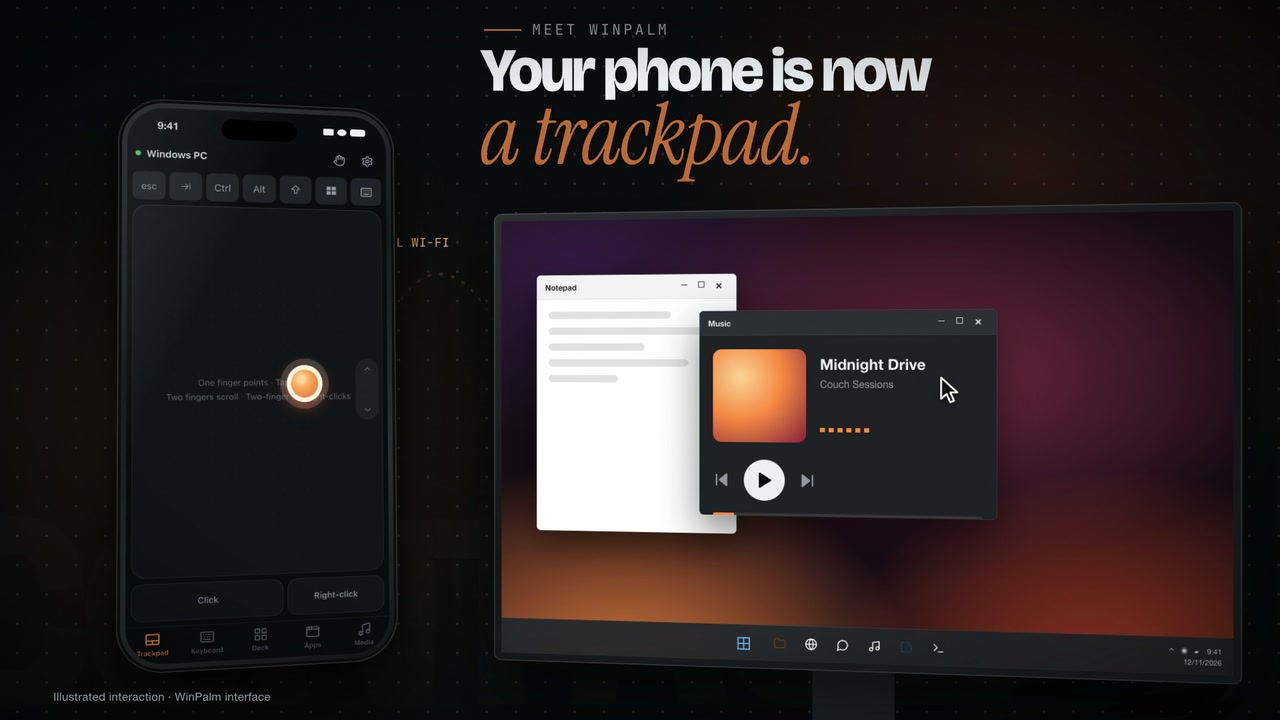
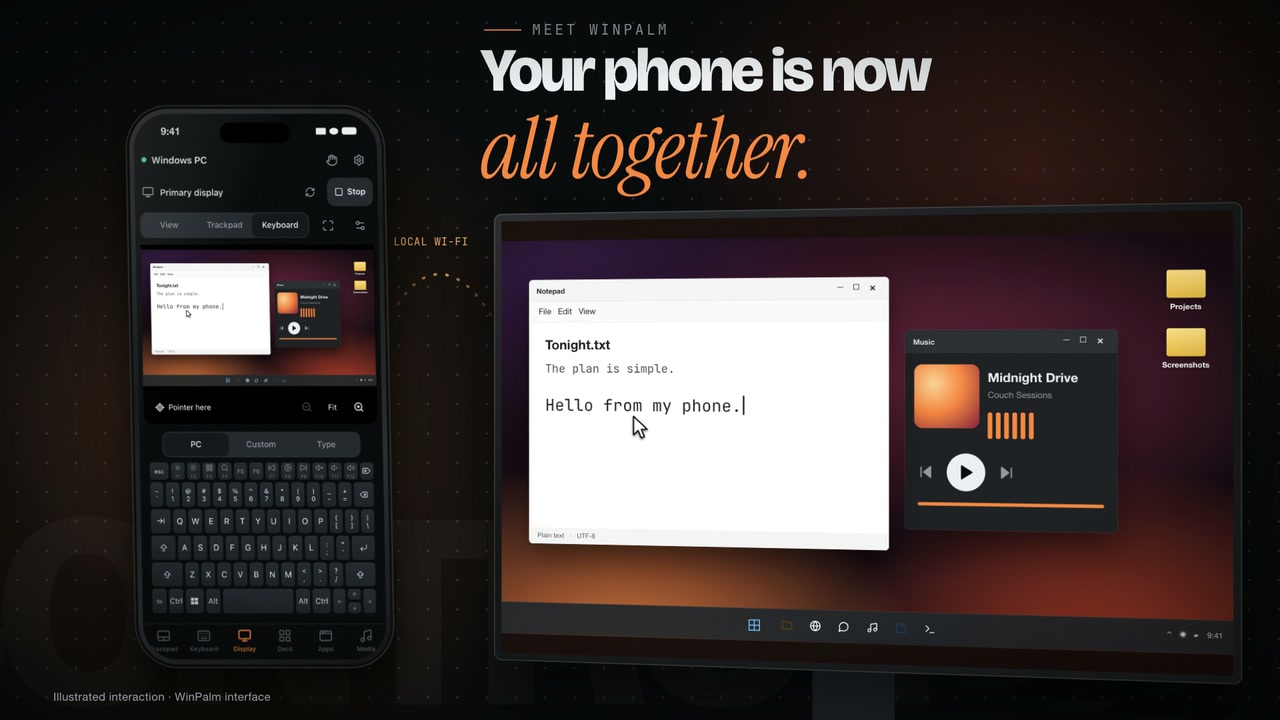
Refresh screen mirroring presentation and launch media
Align the README and phone metadata with the Display-first website refresh.
Update reviewed animations, posters and media export settings.

diff --git a/web/index.html b/web/index.html
@@ -4,7 +4,21 @@
     <meta charset="utf-8" />
     <meta name="viewport" content="width=device-width, initial-scale=1, maximum-scale=1, user-scalable=no, viewport-fit=cover, interactive-widget=resizes-content" />
     <meta name="theme-color" content="#0a0b0d" />
-    <meta name="description" content="Use your phone as a trackpad, keyboard and button deck for your PC." />
+    <meta name="description" content="Turn your iPhone, iPad or Android phone into a wireless Windows trackpad, keyboard, shortcut deck and live screen viewer. No phone app, account or cloud relay." />
+    <meta name="keywords" content="WinPalm, Windows screen viewer, mirror Windows screen to phone, phone as Windows trackpad, wireless mouse, Windows keyboard, shortcut deck, Windows remote control" />
+    <meta name="application-name" content="WinPalm" />
+    <meta name="author" content="RS Application" />
+    <meta property="og:type" content="website" />
+    <meta property="og:site_name" content="WinPalm" />
+    <meta property="og:title" content="WinPalm — Your Windows PC, in your palm" />
+    <meta property="og:description" content="Use your phone as a wireless Windows trackpad, keyboard, shortcut deck and live screen viewer. Private, direct and permission-controlled." />
+    <meta property="og:url" content="https://winpalm.rsapplication.com/" />
+    <meta property="og:image" content="https://winpalm.rsapplication.com/og.png" />
+    <meta property="og:image:alt" content="WinPalm Display illustrates a Windows desktop mirrored beside phone keyboard controls" />
+    <meta name="twitter:card" content="summary_large_image" />
+    <meta name="twitter:title" content="WinPalm — Your Windows PC, in your palm" />
+    <meta name="twitter:description" content="Turn your phone into a wireless Windows controller and live screen viewer. No phone app, account or cloud relay." />
+    <meta name="twitter:image" content="https://winpalm.rsapplication.com/og.png" />
     <meta name="color-scheme" content="dark light" />
     <meta name="apple-mobile-web-app-capable" content="yes" />
     <meta name="mobile-web-app-capable" content="yes" />
@@ -16,7 +30,7 @@
     <link rel="manifest" href="/manifest.webmanifest" />
     <link rel="icon" href="/icon.svg" type="image/svg+xml" />
     <link rel="apple-touch-icon" href="/apple-touch-icon.png" />
-    <title>WinPalm</title>
+    <title>WinPalm — Windows screen viewer, trackpad &amp; keyboard</title>
   </head>
   <body>
     <div id="app"></div>

diff --git a/README.md b/README.md
@@ -6,9 +6,9 @@
 
 ### Your PC, in your palm.
 
-Turn your iPhone, iPad or Android phone into a wireless mouse, trackpad,<br />
-keyboard and shortcut deck for Windows.<br />
-**No phone app. No account. Your controls stay on your network.**
+See and control your Windows PC from your iPhone, iPad or Android phone.<br />
+Screen mirroring, trackpad, keyboard and shortcut deck, together in your browser.<br />
+**No phone app. No account. Free and open source.**
 
 <br />
 
@@ -29,9 +29,9 @@ keyboard and shortcut deck for Windows.<br />
 
 <br />
 
-<a href="https://winpalm.rsapplication.com"><img src="docs/media/hero.webp" width="800" alt="Animated WinPalm preview: a phone controls the Windows trackpad, keyboard, shortcut Deck and voice typing" /></a>
+<a href="https://winpalm.rsapplication.com"><img src="docs/media/hero.webp" width="800" alt="WinPalm mirrors a Windows screen to a phone with trackpad and keyboard controls, shortcut Deck and voice typing" /></a>
 
-<sub><a href="https://winpalm.rsapplication.com/#film">▶ Watch the 86-second launch film</a> · <a href="https://winpalm.rsapplication.com">Try the interactive demo</a></sub>
+<sub><a href="https://winpalm.rsapplication.com/#film">▶ Watch the 101-second launch film</a> · <a href="https://winpalm.rsapplication.com">Try the interactive demo</a></sub>
 
 </div>
 
@@ -131,6 +131,36 @@ If you used a private development preview, quit it and install the latest public
 
 </details>
 
+## See your PC. Stay where you are.
+
+<a href="https://winpalm.rsapplication.com/guides/windows-screen-on-phone/"><img src="docs/media/display.webp" width="800" alt="WinPalm mirrors a Windows monitor to a phone with trackpad, keyboard, zoom and fullscreen controls" /></a>
+
+Use your phone as both a controller and a window into your PC. **Screen mirroring** in the **Display**
+tab brings a selected Windows monitor to your phone, on its own, above the
+trackpad or keyboard, or beside controls on a wide screen. Zoom and pan around
+the preview without moving the PC pointer, move the pointer to the selected
+monitor when you want, or enter fullscreen to focus on the screen. Choose
+between smooth motion, lower bandwidth, sharper text, or lossless HD text.
+
+Screen viewing is optional and separately permissioned. Enable **Allow screen
+viewing** in WinPalm's **Settings → General**, then grant access to your phone
+in **Settings → Devices**. You can also ask for approval on the PC from the
+phone. Video travels directly between the PC and phone over encrypted WebRTC,
+with no cloud relay. WinPalm captures no desktop audio and saves no screen
+recordings. Viewing stops when you leave the Display tab, pause control, or
+the PC locks, sleeps, or turns off its displays. Read the [screen viewing
+guide](https://winpalm.rsapplication.com/docs/screen-mirroring/)
+for setup and privacy details.
+
+One allowed device can view one selected monitor at a time. Use trusted HTTPS
+to protect the page, controls and pairing too; WebRTC encryption alone does not
+protect HTTP signaling. A reachable private VPN can work, but screen media
+requires a direct UDP path. Controls may connect while Display cannot, and a
+web reverse proxy does not carry the screen stream. WinPalm is not an extra
+monitor or an extended desktop.
+
+[Screen mirroring setup →](https://winpalm.rsapplication.com/docs/screen-mirroring/)
+
 ## Everything you need from the couch
 
 <table>
@@ -190,7 +220,30 @@ Speak into your phone and let a compatible installed Windows recognizer type on 
 </tr>
 </table>
 
-<sub>Animated previews from the 0.3.2 launch film, including the redesigned Windows interface. Phone UI and illustrated PC responses; no live Windows footage.</sub>
+<table>
+<tr>
+<td width="50%" valign="top">
+
+#### Live screen viewing
+See a selected Windows monitor right on your phone. Pick the display, choose
+how it fits beside your controls, zoom into details, or go fullscreen. HD text
+mode sends lossless pictures up to a 3840 × 2160 pixel budget, at up to one
+update per second.
+
+</td>
+<td width="50%" valign="top">
+
+#### Permission stays with you
+Screen viewing starts off disabled. Turn it on in General, grant it per device,
+or approve a one-time request from someone at the PC. The PC stops capturing
+when viewing ends, access is revoked, control is paused, or Windows locks or
+sleeps. No desktop audio or screen recording.
+
+</td>
+</tr>
+</table>
+
+<sub>Animated previews from the updated 101-second launch film, including screen mirroring and the redesigned Windows interface. Phone UI and illustrated PC responses; no live Windows footage.</sub>
 
 Pair multiple phones and tablets. Settings, custom keyboards and gestures are backed up on the PC for each device. **Copy settings from another device** lets you select individual settings sections and keyboards. Deck pages are shared across paired devices.
 
@@ -202,7 +255,7 @@ For slides, use large arrow keys. For games, make a WASD layout. For movie night
 
 <a href="https://winpalm.rsapplication.com/#film"><img src="docs/media/film.jpg" width="640" alt="Watch the complete WinPalm launch film" /></a>
 
-<sub><a href="https://winpalm.rsapplication.com/#film">▶ Watch the 86-second film on winpalm.rsapplication.com</a></sub>
+<sub><a href="https://winpalm.rsapplication.com/#film">▶ Watch the 101-second film on winpalm.rsapplication.com</a></sub>
 
 </div>
 
@@ -210,7 +263,7 @@ For slides, use large arrow keys. For games, make a WASD layout. For movie night
 
 - **No accounts or analytics.** Phone controls connect directly to your PC over your local network.
 - **Pair devices you trust.** Use QR, PIN or explicit PC approval; revoke a device from Windows at any time.
-- **You stay in control.** Pause releases held input and stops running commands and dictation. PowerShell is off by default and uses your normal user permissions when enabled.
+- **You stay in control.** Pause releases held input and stops screen viewing, running commands and dictation. PowerShell is off by default and uses your normal user permissions when enabled.
 - **Your setup stays on your PC.** Pairings, settings, Deck pages, custom keyboards and certificates live under `%LOCALAPPDATA%\RS Application\WinPalm`.
 
 Use trusted HTTPS where network traffic could be observed. HTTP does not encrypt input or reconnect tokens. Update checks contact GitHub and can be turned off. Using your phone keyboard's own dictation follows the phone provider's privacy settings. See [SECURITY.md](SECURITY.md) for the full model.
@@ -258,7 +311,7 @@ Builds, dependencies, caches and local reports go to `../winpalm-dev/`. The sour
 
 Future releases follow CmdPalm's routine: update the changelog, run **`bun scripts/bump-version.ts VERSION`**, commit and push, then tag **`vVERSION`**. The release workflow runs native x64/ARM64 checks, builds setup, verifies checksums and publishes the release. See [CONTRIBUTING.md](CONTRIBUTING.md), [the release guide](docs/RELEASING.md) and [the protocol](docs/PROTOCOL.md).
 
-When the launch film changes, regenerate the README animations and poster with **`scripts/readme-media.sh ../winpalm-dev/launch-film/renders/winpalm-launch-VERSION.mp4`**. The generated [media manifest](docs/media/manifest.json) records the master and preview hashes. Publish the matching film and posters on the website together.
+When the launch film changes, regenerate the README animations and poster with **`scripts/readme-media.sh ../winpalm-dev/launch-film/renders/winpalm-launch-display-2026-11-17-v2.mp4`**. The generated [media manifest](docs/media/manifest.json) records the master and preview hashes. Publish the matching film and posters on the website together. The current reviewed 101-second film includes Display, screen mirroring and permission controls.
 
 ## License
 
